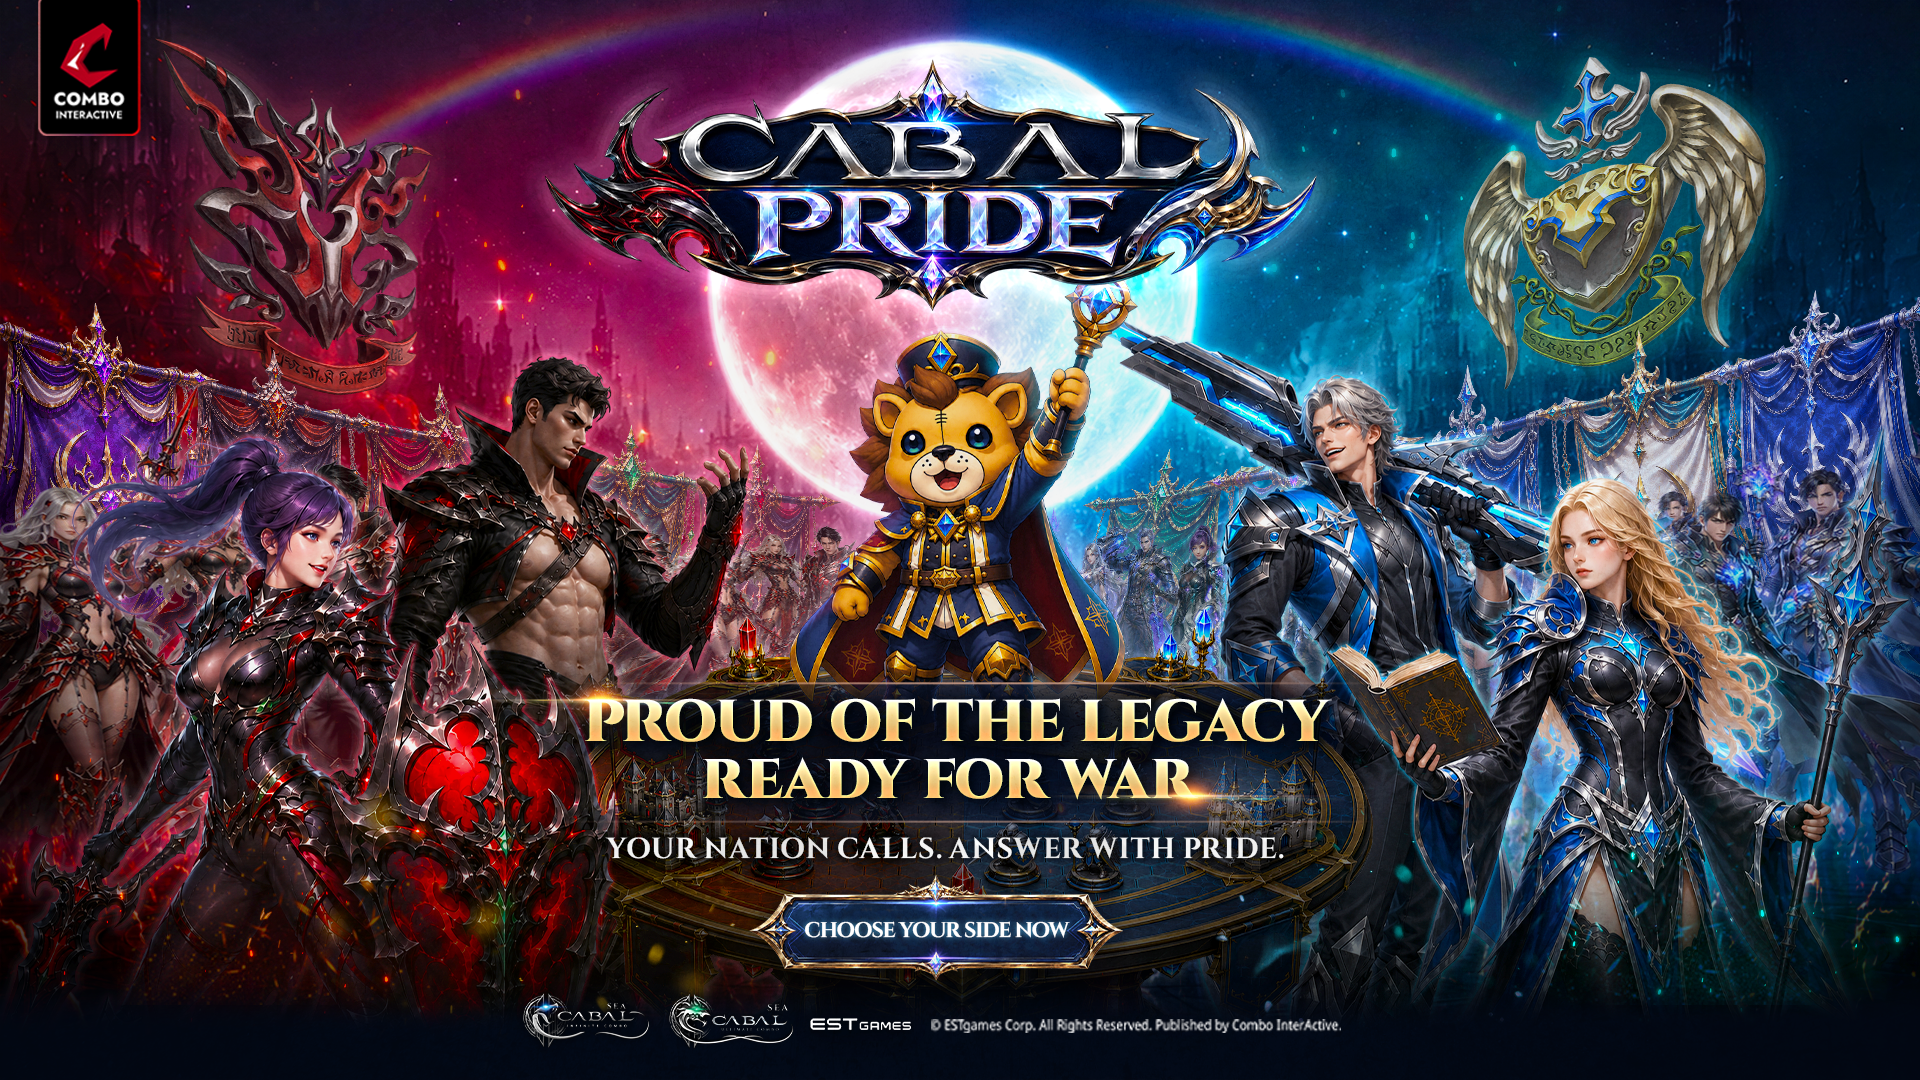
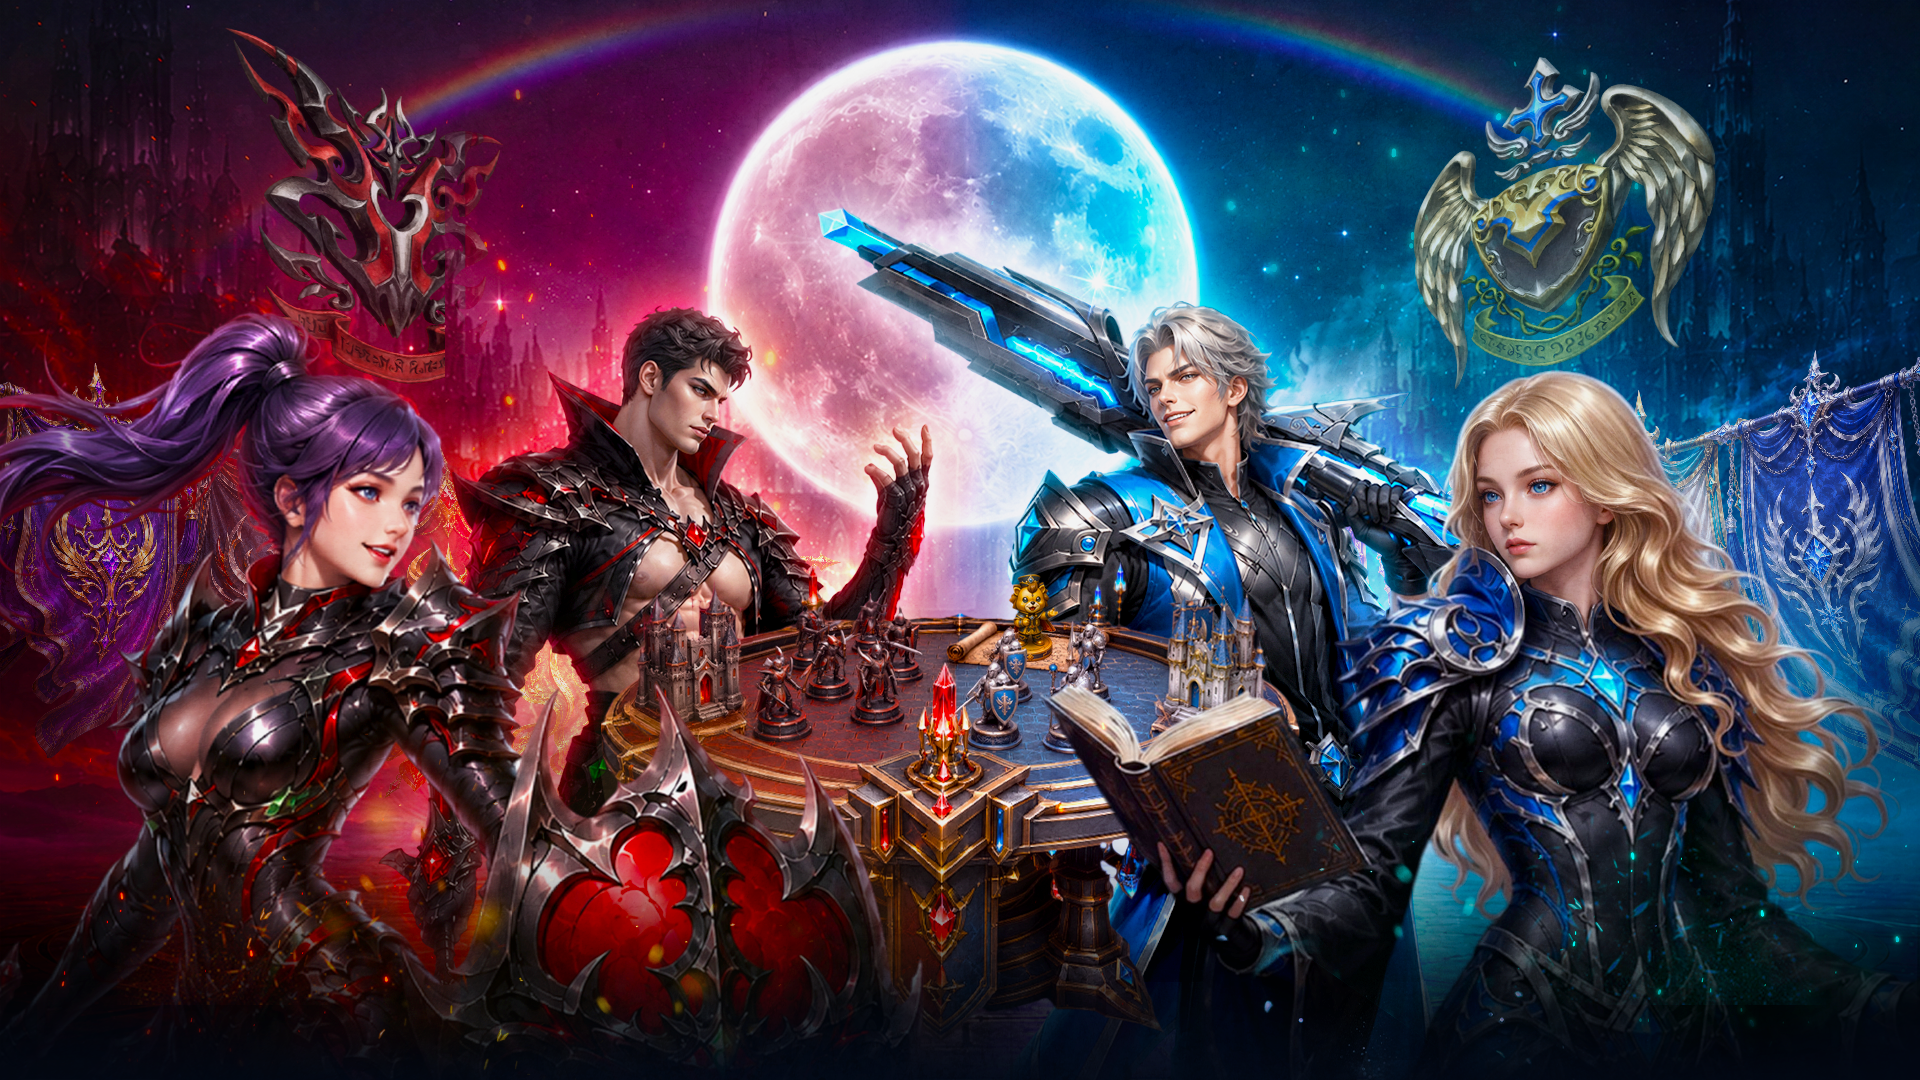
Add files via upload

diff --git a/index.html b/index.html
@@ -224,9 +224,12 @@
   .community-icon{width:58px;height:58px;}
 }
 
+  
+    .company-flag{position:fixed;top:calc(var(--nav-h,64px) + 12px);left:16px;z-index:120;display:block;width:72px;max-width:18vw;border-radius:10px;overflow:hidden;background:#030312;border:1px solid rgba(240,208,96,.34);box-shadow:0 14px 34px rgba(0,0,0,.42),0 0 24px rgba(216,15,23,.18);transition:transform .18s ease,border-color .18s ease,filter .18s ease}.company-flag:hover,.company-flag:focus-visible{transform:translateY(-2px);border-color:#f0d060;filter:brightness(1.08);outline:none}.company-flag img{display:block;width:100%;height:auto}@media(max-width:840px){.company-flag{top:calc(var(--nav-h,84px) + 8px);left:10px;width:52px;border-radius:8px}}
   </style>
 </head>
 <body>
+  <a class="company-flag" href="https://combocabalm.com/sea/id/" target="_blank" rel="noopener" aria-label="Open Combo Interactive official page"><img src="Combo Logo.png" alt="Combo Interactive"></a>
   <nav id="site-nav" aria-label="Campaign navigation">
     <a class="nav-brand" href="index.html">
       <span class="nav-brand-logo"><img src="cabal-pride-logo.png" alt="CABAL PRIDE"></span>
@@ -274,9 +277,9 @@
       applyCommunityLink();
     }
     function validUrl(url){url=String(url||'').trim();if(!url||url.indexOf('PASTE_')===0||url==='#')return '';if(!/^https?:\/\//i.test(url)&&/^[a-z0-9.-]+\.[a-z]{2,}/i.test(url))url='https://'+url;return /^https?:\/\//i.test(url)?url:'';}
-    function applyCommunityLink(){var link=document.getElementById('community-link'),note=document.getElementById('community-source'),url=validUrl(CONFIG.linktreeUrl);if(!link)return;if(url){link.href=url;link.setAttribute('aria-disabled','false');if(note)note.textContent='Opens the official Linktree for all CABAL PRIDE groups';}else{link.href='#';link.setAttribute('aria-disabled','true');if(note)note.textContent='Community link not connected yet';}}
+    function applyCommunityLink(){var link=document.getElementById('community-link'),note=document.getElementById('community-source'),url=validUrl(CONFIG.linktreeUrl);if(!link)return;if(url){link.href=url;link.setAttribute('aria-disabled','false');if(note)note.textContent='Opens the official Linktree for all CABAL PRIDE groups';}else{link.href='#';link.setAttribute('aria-disabled','true');if(note)note.textContent='Add the Linktree URL in Community Links tab, cell C5';}}
     document.addEventListener('click',function(e){var link=e.target.closest&&e.target.closest('#community-link[aria-disabled="true"]');if(link){e.preventDefault();}});
-    function sheetRows(sheet,range){return new Promise(function(resolve,reject){var cb='__cabalSheet'+Date.now()+Math.floor(Math.random()*9999),done=false,timer=setTimeout(function(){cleanup();reject(new Error('Sheet load timed out'));},9000);function cleanup(){done=true;clearTimeout(timer);delete window[cb];if(script.parentNode)script.parentNode.removeChild(script)}window[cb]=function(res){if(done)return;cleanup();if(!res||res.status==='error')return reject(new Error('Sheet response error'));var headers=((res.table&&res.table.cols)||[]).map(function(col){return col.label||col.id||'';});var rows=(res.table&&res.table.rows)||[];var data=rows.map(function(row){return (row.c||[]).map(function(cell){return cell ? (cell.f || cell.v || '') : '';});});resolve(headers.some(Boolean)?[headers].concat(data):data);};var script=document.createElement('script');script.src='https://docs.google.com/spreadsheets/d/'+SHEET_ID+'/gviz/tq?sheet='+encodeURIComponent(sheet)+'&range='+encodeURIComponent(range)+'&tqx=responseHandler:'+cb;script.onerror=function(){cleanup();reject(new Error('Sheet script failed'));};document.head.appendChild(script);});}
+    function sheetRows(sheet,range){return new Promise(function(resolve,reject){var cb='__cabalSheet'+Date.now()+Math.floor(Math.random()*9999),done=false,timer=setTimeout(function(){cleanup();reject(new Error('Sheet load timed out'));},9000);function cleanup(){done=true;clearTimeout(timer);delete window[cb];if(script.parentNode)script.parentNode.removeChild(script)}window[cb]=function(res){if(done)return;cleanup();if(!res||res.status==='error')return reject(new Error('Sheet response error'));var headers=((res.table&&res.table.cols)||[]).map(function(col){return col.label||col.id||'';});var rows=(res.table&&res.table.rows)||[];var data=rows.map(function(row){return (row.c||[]).map(function(cell){return cell ? (cell.f || cell.v || '') : '';});});resolve(headers.some(Boolean)?[headers].concat(data):data);};var script=document.createElement('script');script.src='https://docs.google.com/spreadsheets/d/'+SHEET_ID+'/gviz/tq?sheet='+encodeURIComponent(sheet)+'&range='+encodeURIComponent(range)+'&tqx=responseHandler:'+cb+'&cacheBust='+Date.now();script.onerror=function(){cleanup();reject(new Error('Sheet script failed'));};document.head.appendChild(script);});}
     function tableObjects(rows){var headers=(rows[0]||[]).map(function(h){return String(h).trim();});return rows.slice(1).filter(function(r){return r.some(Boolean);}).map(function(row){var obj={};headers.forEach(function(h,i){obj[h]=row[i]||'';});return obj;});}
     function firstSheetRows(names,range){var i=0;return new Promise(function(resolve){function next(){if(i>=names.length)return resolve([]);sheetRows(names[i++],range).then(resolve).catch(next);}next();});}
     function num(value){return Number(String(value||'').replace(/,/g,''))||0;}
@@ -284,15 +287,17 @@
       Promise.all([
         sheetRows('Campaign Phases','A4:H20'),
         sheetRows('Guild Lore','A4:O200'),
+        firstSheetRows(['Main Top 5','Main Page Top 5','Top 5','Leaderboard'],'A4:G20'),
         firstSheetRows(['Community Links','Links','HTML Data','Community','Official Links'],'A4:F80'),
         firstSheetRows(['Page Settings','Settings','HTML Data'],'A4:D80')
       ]).then(function(result){
-        var phases=tableObjects(result[0]),guilds=tableObjects(result[1]),links=tableObjects(result[2]),settings=tableObjects(result[3]);
-        if(phases.length){CONFIG.phases=phases.slice(0,3).map(function(p){return {id:p.phase_id,name:'P'+p.phase_id+' | '+p.date_range,phaseName:p.phase_name,status:String(p.status||'').toUpperCase()==='ACTIVE'?'ACTIVE':'NOT STARTED',desc:p.short_description||'Short Description',url:p.detail_page_url||p.main_page_url||'#'};});}
-        var approved=guilds.filter(function(g){return (g.guild_name||'') && String(g.status||'').toLowerCase()!=='hidden';}).sort(function(a,b){return num(b.final_score)-num(a.final_score);}).slice(0,5);
-        if(approved.length){CONFIG.guilds=approved.map(function(g){return {name:g.guild_name,logo:g.guild_logo_url,color:g.platform==='Cabal PC'?'#35d07f':'#5ab4ff',score:num(g.final_score)};});}
+        var phases=tableObjects(result[0]),guilds=tableObjects(result[1]),top5=tableObjects(result[2]),links=tableObjects(result[3]),settings=tableObjects(result[4]);
         function pick(row,names){for(var i=0;i<names.length;i++){var wanted=String(names[i]).toLowerCase().replace(/[^a-z0-9]/g,'');for(var key in row){if(String(key).toLowerCase().replace(/[^a-z0-9]/g,'')===wanted)return row[key];}}return '';}
-        var settingsUrl='';settings.forEach(function(s){var key=String(pick(s,['key','Key','name','Name','setting','Setting'])||'').toLowerCase().replace(/[^a-z0-9]/g,'');if(['linktreeurl','communitylink','communityurl','communitygroupurl','groupurl','allgroupsurl'].indexOf(key)>-1)settingsUrl=validUrl(pick(s,['value','Value','url','URL','link','Link']));});
+        if(phases.length){CONFIG.phases=phases.slice(0,3).map(function(p){return {id:p.phase_id,name:'P'+p.phase_id+' | '+p.date_range,phaseName:p.phase_name,status:String(p.status||'').toUpperCase()==='ACTIVE'?'ACTIVE':'NOT STARTED',desc:p.short_description||'Short Description',url:p.detail_page_url||p.main_page_url||'#'};});}
+        var helperRows=top5.filter(function(g){return pick(g,['guild_name','Guild Name','guild_title','Guild Title'])&&num(pick(g,['final_score','Final Score','score','Score']))>0;}).sort(function(a,b){var ar=num(pick(a,['rank','Rank'])),br=num(pick(b,['rank','Rank']));return (ar||999)-(br||999)||num(pick(b,['final_score','Final Score','score','Score']))-num(pick(a,['final_score','Final Score','score','Score']));}).slice(0,5);
+        var approved=helperRows.length?helperRows:guilds.filter(function(g){return pick(g,['guild_name','Guild Name']) && String(pick(g,['status','Status'])||'').toLowerCase()!=='hidden';}).sort(function(a,b){return num(pick(b,['final_score','Final Score','score','Score']))-num(pick(a,['final_score','Final Score','score','Score']));}).slice(0,5);
+        if(approved.length){CONFIG.guilds=approved.map(function(g){var platform=pick(g,['platform','Platform']);return {name:pick(g,['guild_name','Guild Name','guild_title','Guild Title']),logo:pick(g,['guild_logo_url','Guild Logo URL','logo','Logo']),color:platform==='Cabal PC'?'#35d07f':'#5ab4ff',score:num(pick(g,['final_score','Final Score','score','Score']))};});}
+        var settingsUrl='';settings.forEach(function(s){var key=String(pick(s,['key','Key','name','Name','setting','Setting'])||'').toLowerCase().replace(/[^a-z0-9]/g,'');if(['linktreeurl','linktree','communitylink','communityurl','communitygroupurl','groupurl','allgroupsurl','combinedcommunitylinks'].indexOf(key)>-1)settingsUrl=validUrl(pick(s,['value','Value','url','URL','link','Link']));});
         var linktree=links.find(function(l){var type=String(pick(l,['link_type','Link Type','type','Type','name','Name','label','Label','icon_hint','Icon Hint'])||'').toLowerCase();var status=String(pick(l,['status','Status'])||'').toLowerCase();return status!=='hidden'&&(type.indexOf('linktree')>-1||type.indexOf('community')>-1||type.indexOf('group')>-1||type.indexOf('all')>-1);})||links.find(function(l){return validUrl(pick(l,['url','URL','link','Link','link_url','Link URL','community_url','Community URL','value','Value']));});
         var communityUrl=settingsUrl||(linktree&&validUrl(pick(linktree,['url','URL','link','Link','link_url','Link URL','community_url','Community URL','value','Value'])));
         if(communityUrl)CONFIG.linktreeUrl=communityUrl;
@@ -301,6 +306,7 @@
     }
     renderHub();
     loadLiveData();
+    setInterval(loadLiveData,60000);
   </script>
 </body>
 </html>